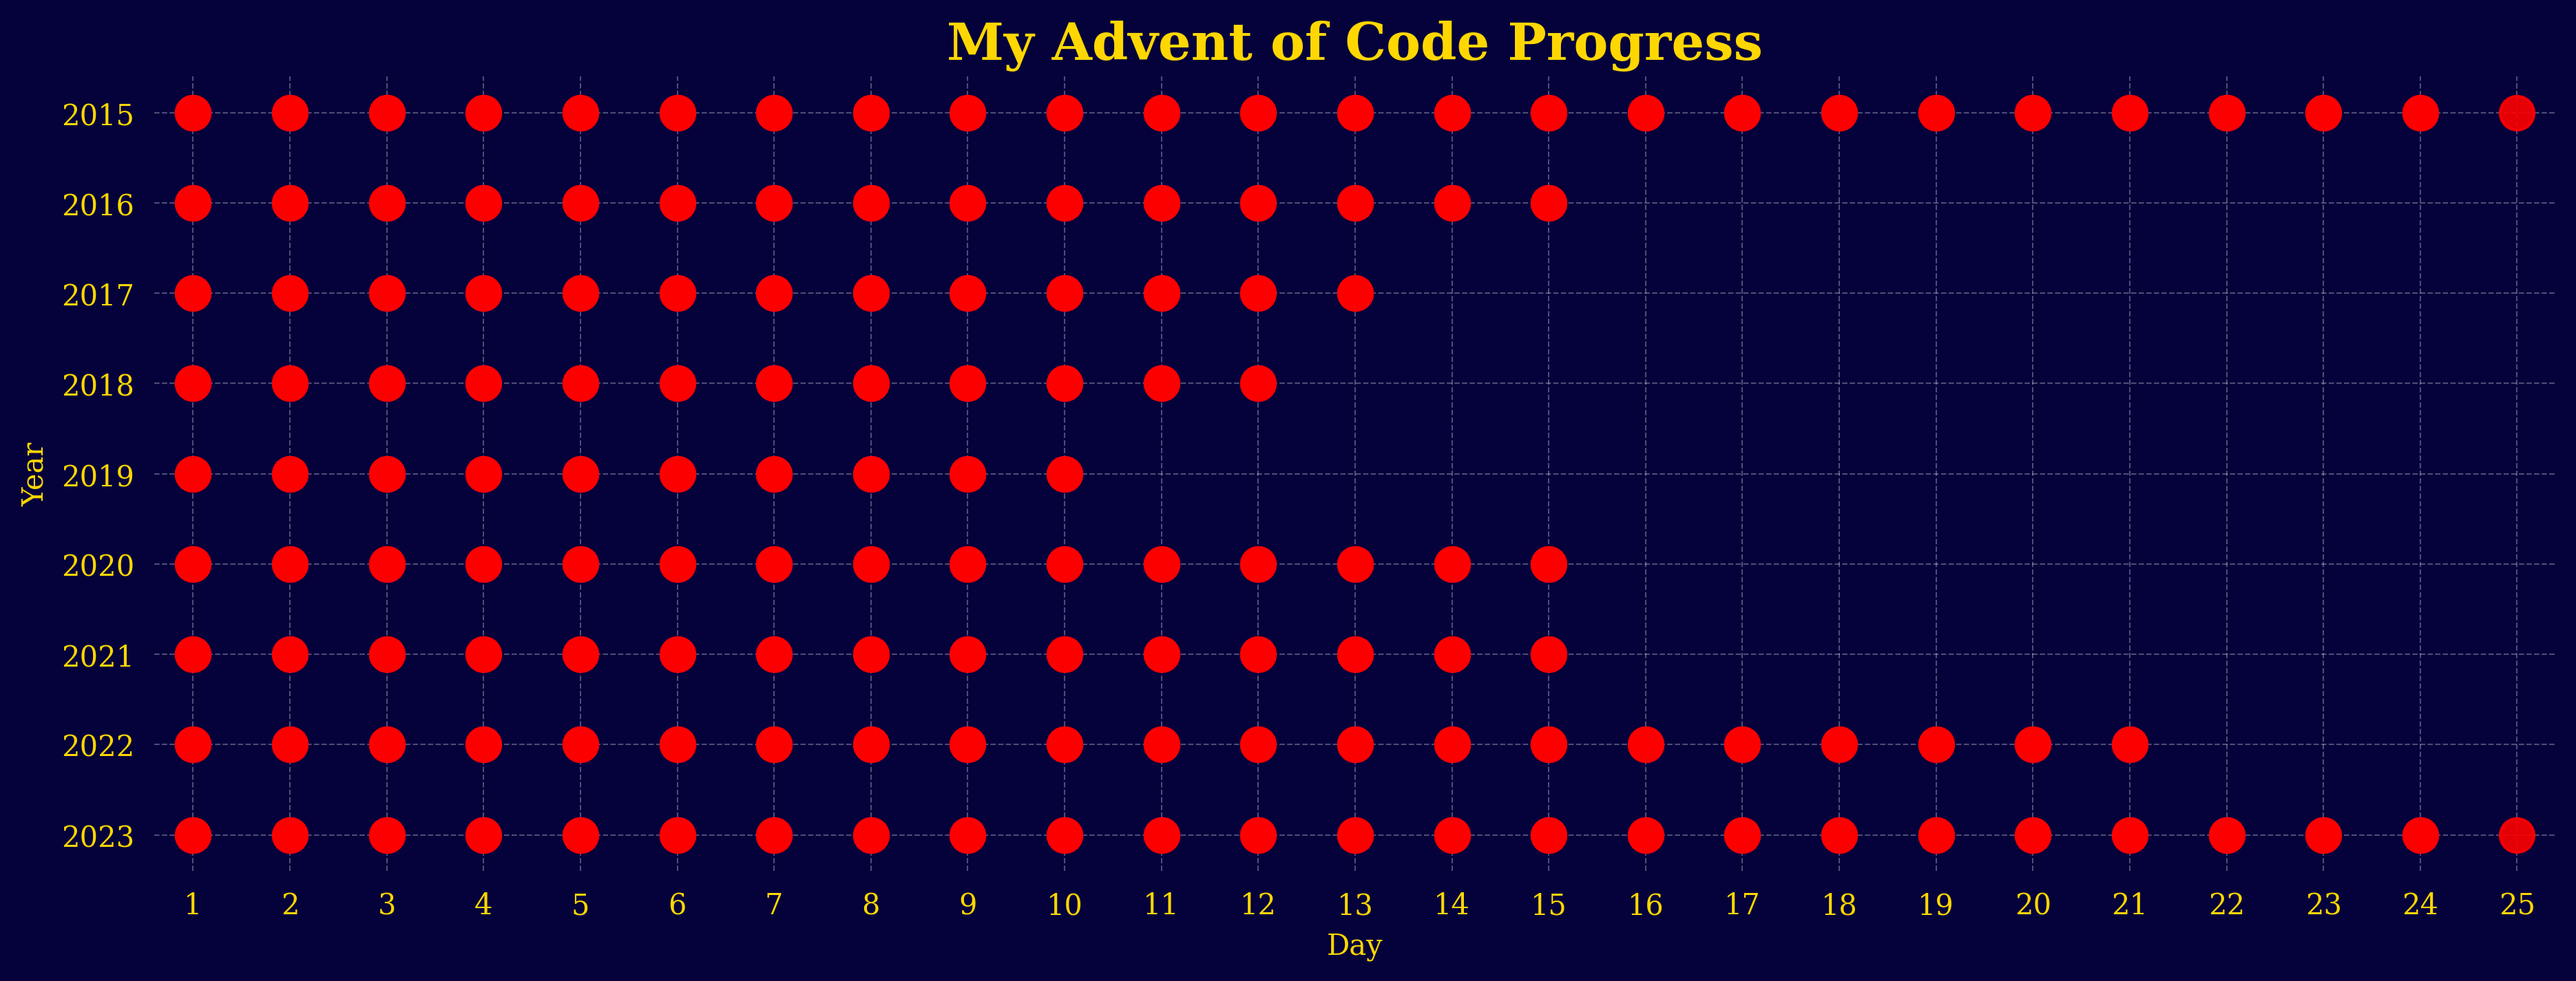
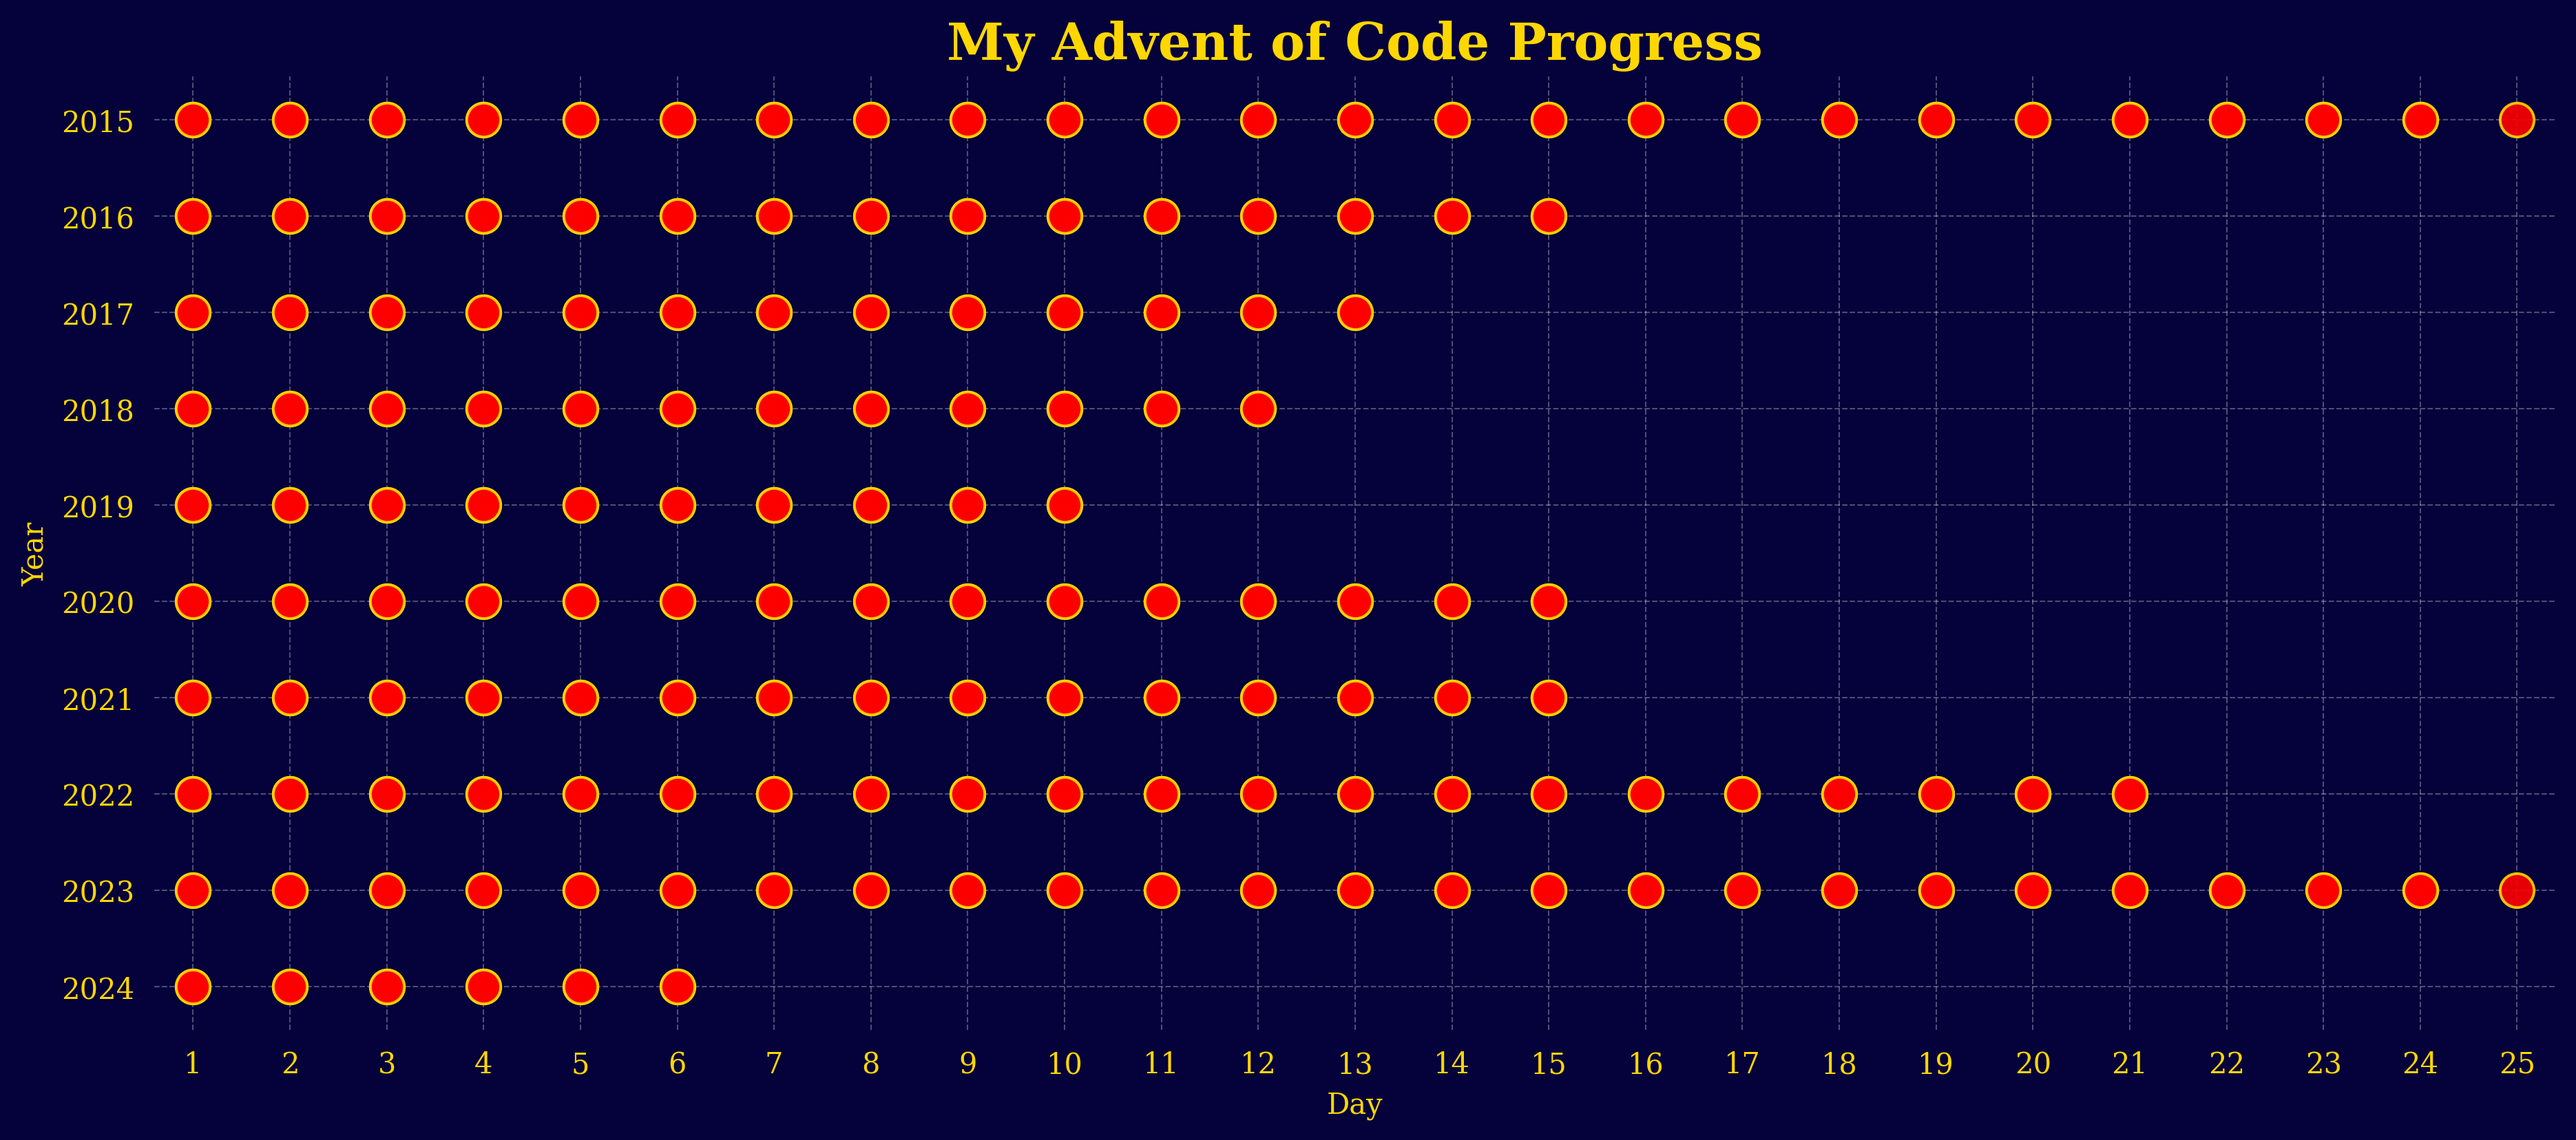
add day 6

diff --git a/2024/06/p2.py b/2024/06/p2.py
@@ -1,0 +1,88 @@
+from collections import defaultdict
+from bisect import insort, bisect
+
+
+def part2(puzzle_input):
+    grid = puzzle_input.split('\n')
+    m, n = len(grid), len(grid[0])
+    obstacles = {
+        'rows': defaultdict(list),
+        'cols': defaultdict(list),
+    }
+    for r in range(m):
+        for c in range(n):
+            if grid[r][c] == '#':
+                insort(obstacles['rows'][r], c)
+                insort(obstacles['cols'][c], r)
+            if grid[r][c] == '^':
+                start = (r, c, 'up')
+
+    def move(r, c, d, obstacles):
+        r_obs = obstacles['rows'][r]
+        c_obs = obstacles['cols'][c]
+
+        if d == 'up':
+            if not c_obs or c_obs[0] > r:
+                new_r = -1
+            else:
+                i = bisect(c_obs, r)
+                new_r = c_obs[i-1] + 1
+            return new_r, c, 'right'
+
+        if d == 'right':
+            if not r_obs or r_obs[-1] < c:
+                new_c = n
+            else:
+                i = bisect(r_obs, c)
+                new_c = r_obs[i] - 1
+            return r, new_c, 'down'
+        
+        if d == 'down':
+            if not c_obs or c_obs[-1] < r:
+                new_r = m
+            else:
+                i = bisect(c_obs, r)
+                new_r = c_obs[i] - 1
+            return new_r, c, 'left'
+
+        if d == 'left':
+            if not r_obs or r_obs[0] > c:
+                new_c = -1
+            else:
+                i = bisect(r_obs, c)
+                new_c = r_obs[i-1] + 1
+            return r, new_c, 'up'
+
+    candidates = set()
+    r, c, d = start
+    while r in range(m) and c in range(n):
+        new_r, new_c, new_d = move(r, c, d, obstacles)
+        if d == 'up':
+            candidates |= set((i, c) for i in range(new_r+1, r+1))
+        elif d == 'right':
+            candidates |= set((r, j) for j in range(c, new_c))
+        elif d == 'down':
+            candidates |= set((i, c) for i in range(r, new_r))
+        elif d == 'left':
+            candidates |= set((r, j) for j in range(new_c+1, c+1))
+        r, c, d = new_r, new_c, new_d
+
+    def is_looping(obstacles):
+        r, c, d = start
+        visited = set([start])
+        while r in range(m) and c in range(n):
+            r, c, d = move(r, c, d, obstacles)
+            if (r, c, d) in visited:
+                return True
+            visited.add((r, c, d))
+        return False
+    
+    loop_count = 0
+    for r, c in candidates:
+        insort(obstacles['rows'][r], c)
+        insort(obstacles['cols'][c], r)
+        loop_count += is_looping(obstacles)
+        obstacles['rows'][r].remove(c)    
+        obstacles['cols'][c].remove(r)
+
+    return loop_count

diff --git a/2024/06/p1.py b/2024/06/p1.py
@@ -1,0 +1,26 @@
+from itertools import cycle
+
+
+def part1(puzzle_input):
+    grid = puzzle_input.split('\n')
+    m, n = len(grid), len(grid[0])
+    for i in range(m):
+        for j in range(n):
+            if grid[i][j] == '^':
+                r, c = i, j
+
+    direction = cycle([(-1, 0), (0, 1), (1, 0), (0, -1)])
+    d = next(direction)
+    visited = set([(r, c)])
+    while True:
+        new_r = r + d[0]
+        new_c = c + d[1]
+        if new_r not in range(m) or new_c not in range(n):
+            break 
+        if grid[new_r][new_c] == '#':
+            d = next(direction)
+        else:
+            r, c = new_r, new_c
+            visited.add((r, c))
+
+    return len(visited)

diff --git a/2024/06/walkthrough.md b/2024/06/walkthrough.md
@@ -1,0 +1,49 @@
+### Part 1
+
+***Problem:***
+- There's a 2-dimensional grid with empty space `.`, obstacles `#` and a single upwards pointing arrow `^`
+- A guard starts traversing the grid starting at the arrow and moving upwards
+- When he hits an obstacle he turns 90° right and continues walking until he exits the grid
+- How many squares will the guard have traversed before he exits?
+
+***Approach:***
+- Parse the puzzle input to get the grid, its length and width and starting coordinates
+- Create an array named `direction` representing the four directions up, right, down and left (the exact order in which the guard will change direction)
+- Create another variable `d` which will track the current direction (it could either represent the current index of the direction array or the actual direction itself using `itertools.cycle` on the directions)
+- Initialize a set named `visited` to track the coordinates that the guard has traversed
+- Create a loop in which the current directional coordinates are added to the current coordinates
+    - If the resulting coordinates represent empty space inside the grid then add the new coordinates to `visited` and move forward
+    - If they fall on an obstacle, then simply change direction by incrementing `d` (if `d` represents an index, you'll need to use modulo to avoid indexing errors)
+    - If the resulting new coordinates are outside of the grid then break the loop
+- Once the loop has terminated return the length of `visited`
+
+---
+
+### Part 2
+
+***Problem:***
+- We want to trap the guard in a loop, so that he never exits the grid 
+- To achieve this, we are allowed to add an obstacle
+- How many ways are there to trap the guard in a loop by adding a single obstacle?
+
+***Approach:***
+- The general idea will be to treat the `visited` set from part 1 as a list of candidates; you can add an obstacle to each of them individually and check whether a loop occurs
+- Since the list of candidates will be somewhat large (for me more than 4500) it's wise to make some adjustments that will speed up grid traversal considerably even if they also make the code more verbose and complex:
+    - Instead of taking a single step forward, you'll simply jump to the next obstacle using a function named `move`
+    - This function obviously needs to take in the current position and direction but it also needs to accept `obstacles` dynamically, since you'll be adding and removing obstacles a lot
+    - You'll want to be able to access a list of the current row's obstacles (i. e. their column indices) and quickly figure out, which will be the closest to the current column index
+    - An efficient way to achieve this is to store the obstacles in two hashmaps: one will keep a list of column indices for each row the other a list of row indices for each column
+    - Depending on the current direction you'll want to find the next smaller or next larger element in your list of obstacles, so it helps to have these lists sorted (`bisect.insort` provides an easy way to add a number to a `list` while keeping the list sorted)
+    - Another (perhaps slightly unnecessary) optimization when scanning a sorted list is to use binary search (fortunately you don't have to write the binary search algorithm yourself, just use `bisect.bisect`)
+    - To put it all together: the `move` function will check the current direction, retrieve the relevant list of obstacles, determine the closest obstacle in the current direction, determine the coordinates of the empty space right before it, and return the new coordinates and the updated direction 
+- You can either use this new `move` function or the approach from part 1 to attain the list of `candidates`
+- Once you have your list of candidates you'll need another function `is_looping`:
+    - This function will determine whether or not a grid with a given collection of `obstacles` will result in the guard running in circles
+    - Passig coordinates to this function isn't necessary since it'll always start from the original starting position 
+    - In order to determine whether or not the path is looping, you'll need to store `visited` coordinates; you don't need to store the entire path in this set; it's enough to simply store the coordinates of turning points right before each obstacle
+    - Use the `move` function inside a while loop and return `True` once a loop is detected or `False` once the coordinates are outside the bounds of the grid
+- Finally, initialize a return variable `loop_count`, iterate the list of candidates and for each pair of coordinates do three things:
+    - Add the coordinates to the two obstacle hashmaps
+    - Check if the current collection of obstacles cause a loop to occur using `is_looping` and if so increment `loop_count`
+    - Remove the coordinates from `obstacles` again
+- Return `loop_count`
